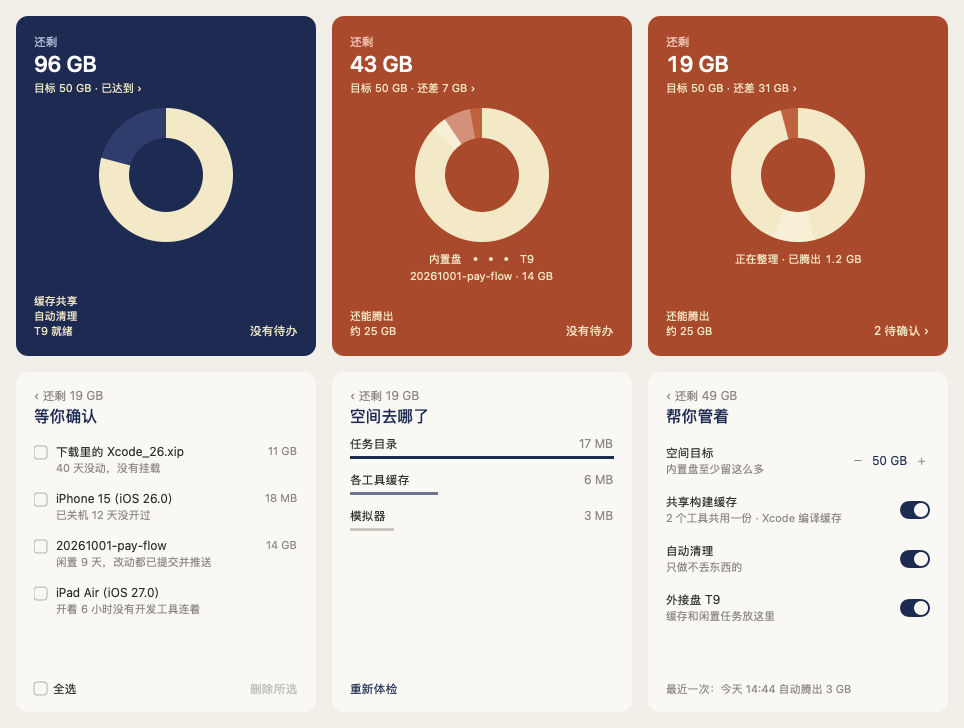
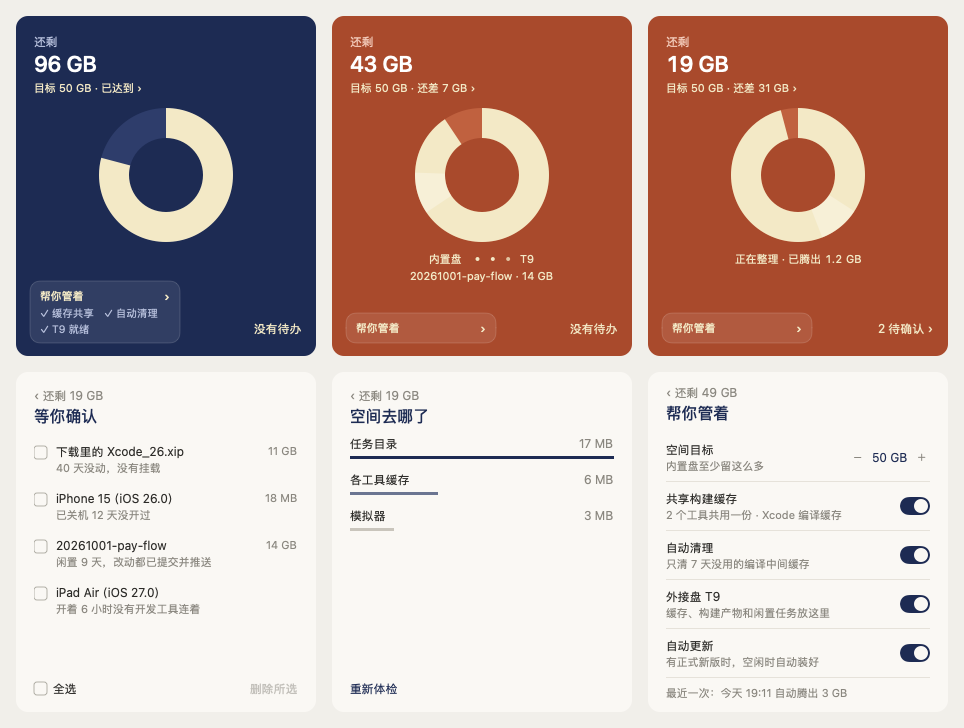
feat: 封面「帮你管着 ›」卡片；自动更新只在内存很紧时等 (#24)
* feat: 封面左下角改成「帮你管着 ›」半透明卡片，加强可点击感

视觉稿选 B（RAW-53～55）：标题加 ›，勾着开着的几项、每行两项不折断；悬停变亮、指针变小手；
后台干活时只留标题一行。离屏渲染：搬运状态最后设置，免得 2 秒重采样盖掉固定数字。

* fix: 自动更新只在内存「很紧」时等，等待原因写进 update.json

本机实测：两轮后台整理都碰上内存「紧张」（开着 5 台模拟器），更新一直等、也没留下原因。

---------

diff --git a/widget/Cover.swift b/widget/Cover.swift
@@ -256,33 +256,69 @@ private struct Cover: View {
             }
             VStack { Spacer(); HStack(alignment: .bottom) {
                 Button { store.page = .switches } label: {
-                    VStack(alignment: .leading, spacing: 1) { ForEach(Array(leftLines(tight).enumerated()), id: \.offset) { _, line in
-                        Text(line.0).foregroundColor(line.1)
-                    } }.font(.system(size: 11)).contentShape(Rectangle())
-                }.buttonStyle(.plain).help("帮你管着")
+                    // While the background works, the line under the ring already says what is going on.
+                    ManageCard(items: model.work == nil ? manageItems(tight, soft: soft) : [])
+                }.buttonStyle(.plain).help("打开「帮你管着」")
                 Spacer()
                 Button { if store.unplugged == nil && s.pending > 0 { store.page = .pending } else { store.page = .switches } } label: {
                     Text(rightLine(s)).font(.system(size: 12)).foregroundColor(store.unplugged == nil ? Ink.cream : Ink.coral)
-                }.buttonStyle(.plain)
-            } }.padding(18)
+                }.buttonStyle(.plain).padding(.bottom, 7)
+            } }.padding(.horizontal, 14).padding(.bottom, 13)
         }
     }
 
-    private func leftLines(_ tight: Bool) -> [(String, Color)] {
+    /// What the card says it manages: a tick per thing that is on, the unplugged drive in coral,
+    /// or, when space is short, how much more can be freed.
+    private func manageItems(_ tight: Bool, soft: Color) -> [(String, Color)] {
         if tight, let freed = store.checkup?.eligibleBytes, freed >= 1 << 30 {
-            return [("还能腾出", Ink.cream), ("约 \(size(freed))", Ink.cream)]
+            return [("还能腾出约 \(size(freed))", Ink.cream)]
         }
-        var lines: [(String, Color)] = []
-        if store.suggestion("caches")?.outcome == "已开启" { lines.append(("缓存共享", Ink.cream)) }
-        if store.suggestion("clean")?.outcome == "已开启" { lines.append(("自动清理", Ink.cream)) }
-        if let gone = store.unplugged { lines.append(("\(gone) 未连接", Ink.coral)) }
-        else if let drive = store.drive { lines.append(("\(drive) 就绪", Ink.cream)) }
-        return lines.isEmpty ? [(store.checkup == nil ? "" : "还没开启", Ink.cream)] : lines
+        var items: [(String, Color)] = []
+        if store.suggestion("caches")?.outcome == "已开启" { items.append(("✓ 缓存共享", soft)) }
+        if store.suggestion("clean")?.outcome == "已开启" { items.append(("✓ 自动清理", soft)) }
+        if let gone = store.unplugged { items.append(("\(gone) 未连接", Ink.coral)) }
+        else if let drive = store.drive { items.append(("✓ \(drive) 就绪", soft)) }
+        return items.isEmpty ? [(store.checkup == nil ? "" : "还没开启", soft)] : items
     }
 
     private func rightLine(_ s: Snapshot) -> String {
         if store.unplugged != nil { return "插上就恢复" }
         return s.pending > 0 ? "\(s.pending) 待确认 ›" : "没有待办"
+    }
+}
+
+/// The way into 「帮你管着」 (RAW-53/54, choice B): a soft card with a title and ›, so it reads as something to press.
+/// On hover it brightens and the pointer becomes a hand.
+private struct ManageCard: View {
+    let items: [(String, Color)]
+    @State private var hover = false
+
+    var body: some View {
+        VStack(alignment: .leading, spacing: 3) {
+            HStack(spacing: 0) {
+                Text("帮你管着").font(.system(size: 11, weight: .medium))
+                Spacer(minLength: 8)
+                Text("›").font(.system(size: 13, weight: .medium))
+            }.foregroundColor(Ink.cream)
+            // Two per line, never broken inside a word.
+            ForEach(Array(stride(from: 0, to: items.count, by: 2)), id: \.self) { start in
+                HStack(spacing: 10) {
+                    ForEach(start..<min(start + 2, items.count), id: \.self) { i in
+                        Text(items[i].0).foregroundColor(items[i].1).lineLimit(1).fixedSize()
+                    }
+                }.font(.system(size: 10.5))
+            }
+        }
+        .padding(.horizontal, 10).padding(.vertical, 7)
+        .frame(width: 150, alignment: .leading)
+        .background(RoundedRectangle(cornerRadius: 10).fill(Color.white.opacity(hover ? 0.16 : 0.09)))
+        .overlay(RoundedRectangle(cornerRadius: 10).stroke(Color.white.opacity(hover ? 0.34 : 0.18), lineWidth: 0.8))
+        .contentShape(RoundedRectangle(cornerRadius: 10))
+        .onHover { inside in
+            hover = inside
+            if inside { NSCursor.pointingHand.push() } else { NSCursor.pop() }
+        }
+        .animation(Motion.reduced ? nil : .easeOut(duration: 0.15), value: hover)
     }
 }
 

diff --git a/widget/main.swift b/widget/main.swift
@@ -392,9 +392,6 @@ func renderCover(_ tab: String, to out: String) throws {
     if let free = env["RENDER_FREE"].flatMap(Double.init) { model.snapshot.free = free }
     if let capacity = env["RENDER_CAPACITY"].flatMap(Double.init) { model.snapshot.capacity = capacity }
     if let pending = env["RENDER_PENDING"].flatMap(Int.init) { model.snapshot.pending = pending }
-    if let parts = env["RENDER_WORK"]?.split(separator: ":").map(String.init), parts.count == 4 {
-        model.work = Work(kind: parts[0], title: parts[1], bytes: Int64(parts[2]) ?? 0, freeBefore: Double(parts[3]))
-    }
     let store = CoverStore()
     store.checkup = try DashboardActions.call("checkup-preview")
     store.pending = try DashboardActions.call("pending-preview")
@@ -402,6 +399,10 @@ func renderCover(_ tab: String, to out: String) throws {
     store.memory = try DashboardActions.call("memory-page")
     if let pressure = env["RENDER_PRESSURE"].flatMap(UInt32.init) {
         model.snapshot.pressure = pressure; model.snapshot.memorySince = Date().timeIntervalSince1970 - 360
+    }
+    // Last, just before drawing: work starts a 2-second resample, which would replace the pinned numbers with this Mac's.
+    if let parts = env["RENDER_WORK"]?.split(separator: ":").map(String.init), parts.count == 4 {
+        model.work = Work(kind: parts[0], title: parts[1], bytes: Int64(parts[2]) ?? 0, freeBefore: Double(parts[3]))
     }
     store.page = ["cover-pending": .pending, "cover-space": .space, "cover-switches": .switches, "cover-plan": .plan,
                   "cover-memory": .memory][tab] ?? .cover

diff --git a/tests/test_updater.py b/tests/test_updater.py
@@ -85,12 +85,14 @@ class UpdaterTest(unittest.TestCase):
     def test_turned_off_it_never_looks(self):
         self.assertEqual(self.tick(enabled=False, release=Release(fail=AssertionError('looked while off')))['status'], 'off')
 
-    def test_it_waits_while_memory_is_tight(self):
+    def test_it_waits_only_while_memory_is_critical_and_says_so(self):
         memory = self.home / '.local/state/dev-memory'; memory.mkdir(parents=True)
+        (memory / 'latest.json').write_text(json.dumps(dict(sample=dict(pressure=4))))
+        state = self.tick(release=Release(fail=AssertionError('looked while memory was critical')))
+        self.assertEqual(state.get('waiting'), '内存很紧')
+        self.assertEqual(updater.read(self.home).get('waiting'), '内存很紧', 'the reason is kept for later')
+        # 「紧张」 (2) is where a Mac with several simulators sits for hours: that alone does not hold the update.
         (memory / 'latest.json').write_text(json.dumps(dict(sample=dict(pressure=2))))
-        state = self.tick(release=Release(fail=AssertionError('looked under pressure')))
-        self.assertEqual(state.get('waiting'), '内存紧张')
-        (memory / 'latest.json').write_text(json.dumps(dict(sample=dict(pressure=1))))
         self.assertEqual(self.tick(now=NOW + 300)['status'], 'installing')
 
     def test_offline_is_tried_again_after_an_hour(self):

diff --git a/runtime/storage/updater.py b/runtime/storage/updater.py
@@ -81,12 +81,13 @@ def alive(pid):
 
 
 def busy_reason(home):
-    """Not now: memory is tight (building the app needs some), so wait for a calmer moment."""
+    """Not now: memory is critical (building the app needs a few hundred MB). Plain 「紧张」 does not wait:
+    a Mac running several simulators sits there for hours, and the build takes under half a minute."""
     try:
         sample = json.loads((Path(home) / '.local/state/dev-memory/latest.json').read_text()).get('sample') or {}
     except (OSError, ValueError):
         return None
-    return '内存紧张' if sample.get('pressure') in (2, 4) else None
+    return '内存很紧' if sample.get('pressure') == 4 else None
 
 
 def log_tail(home, lines=5):
@@ -122,7 +123,9 @@ def tick(home, enabled, now=None, fetch=urllib.request.urlopen, spawn=subprocess
         return data
     waiting = busy_reason(home)
     if waiting and not force:
-        return dict(data, waiting=waiting)
+        data.update(waiting=waiting, waiting_at=now)   # kept, so 「为什么还没更新」 has an answer
+        save(home, data)
+        return data
     data.update(checked_at=now, waiting=None)
     try:
         release = latest(fetch)

diff --git a/docs/epics/one-click-setup/specs/menubar-cover.md b/docs/epics/one-click-setup/specs/menubar-cover.md
@@ -26,7 +26,7 @@
 | AC-03 | [核] | 用了外接盘但没连接 | 打开封面 | 左下角该行变成珊瑚色「T9 未连接」，右下角「插上就恢复」 | mac原生 | ✅ | ui: cover/3-unplugged.png |
 | AC-04 | [核] | 有待确认的清理 | 点右下角 | 进「等你确认」：可以逐项勾选，也可以点底部「全选」一键全选、再点取消；勾选后底部显示已选大小；点「删除所选」先确认并写明会失去什么；确认后真的删掉，底部写「已删除 N 项，腾出约 X」；没删的逐项列出原因；页面开着超过 5 分钟、或后台正在整理时确认，也照样执行（后者等它做完）；右键一项可「不再提醒」 | mac原生 | ✅ | ui: cover/4-pending.png、cover/4b-pending-all.png；真实面板在隔离目录点「全选 → 删除所选 → 删除」4 种情形：正常 4 项全删、确认 400 秒后仍删、后台占锁 5 秒后等完再删、一项先被手动删掉时其余 3 项删除并列出那一项（改前：超时情形「确认已过期…未执行」一项未删）；另有进程命令行含被截断的中文时照常删除 |
 | AC-05 | [核] | 体检做过 | 点圆环 | 进「空间去哪了」：每类一行大小加一根细条，最大的一类最深；可「重新体检」 | mac原生 | ✅ | ui: cover/5-space.png |
-| AC-06 | [核] | 打开封面 | 点左下角 | 进「帮你管着」：只有五行——空间目标（− N GB +）和共享构建缓存、自动清理、外接盘、自动更新四个开关，控件都对齐在同一条右边线上，各一行短说明；底下一行「最近一次：今天 14:00 自动腾出 3 GB」；没有「全部开启」；关共享缓存前先确认会还原什么 | mac原生 | ✅ | ui: v17/4-switches.png；开关动作沿用 checkup-apply / checkup-off（test_one_click）；最近一次见 LastAutoTest；ui: v177/1-switches.png（五行，1.7.7） |
+| AC-06 | [核] | 打开封面 | 点左下角的「帮你管着 ›」卡片（半透明圆角卡片，标题加 ›，下面勾着开着的几项、每行两项不折断；鼠标移上去卡片变亮、指针变小手；后台干活时只留标题一行，给圆环下的进度让位） | 进「帮你管着」：只有五行——空间目标（− N GB +）和共享构建缓存、自动清理、外接盘、自动更新四个开关，控件都对齐在同一条右边线上，各一行短说明；底下一行「最近一次：今天 14:00 自动腾出 3 GB」；没有「全部开启」；关共享缓存前先确认会还原什么 | mac原生 | ✅ | ui: v17/4-switches.png；开关动作沿用 checkup-apply / checkup-off（test_one_click）；最近一次见 LastAutoTest；ui: v177/1-switches.png（五行，1.7.7）；ui: v178/sheet.png（卡片：平时、内存紧张、空间紧张、后台挪任务，1.7.7） |
 | AC-08 | [边] | 接了两块以上显示器，鼠标在没有菜单栏图标的那块屏幕上（或那块屏幕的菜单栏被全屏 App 藏起来、图标被刘海挡住） | 按快捷键、点通知或点那块屏幕菜单栏上的图标 | 面板在鼠标所在的屏幕弹出，横向位置和图标在菜单栏里的位置对齐，整块面板都在这块屏幕内；面板已在另一块屏幕打开时，按快捷键把它挪过来而不是关掉 | mac原生 | ⚠ | auto: `ResourceDashboard --self-test`（PanelPlacement.selfTest：右侧、左侧负坐标、上方叠放、小屏、菜单栏隐藏、刘海共 8 例；改回「总是挂在图标下」即 FAIL）；ui: 本机单屏 `--probe-panel 960,540 --hide-icon` 面板落在右上角菜单栏下方（顶边 1049，右边 1920）；真实的第二块显示器当时没接，未实测 |
 | AC-07 | [边] | 右键菜单栏图标 | 打开菜单 | 只有「打开资源看板」和「退出资源看板」 | mac原生 | ✅ | 实现在 AppDelegate.applicationDidFinishLaunching；原来的大窗口和「更多」已删除，编译通过即证明没有入口残留 |
 | AC-09 | [核] | 后台正在挪任务到外接盘、删构建产物或清缓存 | 看菜单栏和封面 | 菜单栏数字后多一个轻轻闪的点，做完消失；空间变多时数字从旧值慢慢涨到新值；封面圆环上一道光绕着走，圆环收拢到新比例；圆环下写「正在整理 · 已腾出 X GB」（数字跟着涨），挪到外接盘时是一串点从「内置盘」流向外接盘名并写任务名和大小；系统开了「减少动态效果」时都不动 | mac原生 | ✅ | auto: test_tiers 的状态文件测试（挪动时写、做完删）、`--self-test`（Motion）；ui: 真实 App 在隔离目录写入状态文件后读回：菜单栏「 21G」→「 21G •」，点的透明度 1.0→0.25 交替，停止后回到「 21G」；数字 21→25→27；面板截图 v17/7-live-moving.png、v17/2-cover-moving.png、v17/3-cover-cleaning.png |
@@ -40,6 +40,7 @@
 |---|---|---|---|
 | CH-01 | 2026-10-28 | 新建：看板首页改为菜单栏封面，旧页签收进「更多」（RAW-15～19） | [需求变更] |
 | CH-02 | 2026-10-28 | 「等你确认」底部加「全选」：一键勾上所有能执行的项，再点取消（RAW-20） | [需求变更] |
+| CH-11 | 2026-10-29 | 封面左下角改成「帮你管着 ›」半透明卡片，加强可点击感（RAW-53～55，视觉稿选 B）（AC-06） | [需求变更] |
 | CH-10 | 2026-10-29 | 「帮你管着」加第五行「自动更新」（RAW-52；见 one-line-install CH-05）（AC-06） | [需求变更] |
 | CH-09 | 2026-10-29 | 内存页状态从灰色小字改成彩色标签（RAW-45、RAW-46，视觉稿选 A：标签在名字下）：绿=可以关、蓝=在用不动、紫=开发工具连着、橙=闲置会自动收尾，文字也缩短（AC-11） | [需求变更] |
 | CH-08 | 2026-10-29 | Logo「小留」（RAW-42～44）：原创的小机器人，眼睛是封面那只留着缺口的圆环、手里捧一块缓存；不用瓦力（皮克斯角色，有版权）。菜单栏换成它的实心剪影（1 倍屏和 2 倍屏各一份对齐像素的图），App 图标在本机编译时由同一份代码画出，README 加头图（AC-12） | [需求变更] |

diff --git a/docs/epics/one-click-setup/specs/one-line-install.md b/docs/epics/one-click-setup/specs/one-line-install.md
@@ -29,7 +29,7 @@
 | AC-08 | [边] | 已经装过（升级），或者三项本来就开着 | 再跑安装命令 | 不再问，原来的开关保持不变 | CLI后端 | ✅ | auto: ConsentTest（第二次返回「decided」；三项已开时直接记为同意） |
 | AC-05 | [核] | 安装刚完成 | App 第一次启动 | 后台做一次体检，完成后发一条通知「体检完成」，写明哪几项已经开好（或打开后可腾出约多少空间）；点通知打开体检页；同一版本只发一次 | mac原生 | ⚠ | 实测：本机安装后首次体检后台跑完（17:57:22→17:58:55），checkup.json 记下 notified_version=1.5.0-8，即已调用系统通知；通知横幅与点击打开体检页需要看屏幕，未截图 |
 | AC-09 | [核] | 任何人的 Mac：已经装过、给资源看板点过「允许」访问外接盘（或下载文件夹、访达） | 再跑安装命令升级 | macOS 不再问这些权限，后台往外接盘挪东西照常；新装只在装好后问一次（安装输出写明「点过以后升级不会再问」）；从临时签名的旧版（1.7.5 及更早）第一次升级时最后再问一次；签名放在资源看板自己的目录里，Mole 白名单护着它；本机生成签名失败时退回临时签名并说明下次会再问 | CLI后端 | ✅ | auto: test_local_signing（临时签名每次都变；两次编译同一身份、只生成一次；半途中断能重建；失败退回临时签名），CI 的 macOS 26.6 和本机 macOS 27 都签成了固定签名；实测（本机，10-29）：19:24 换成固定签名后，19:28 系统问了一次外接盘权限，用户点了允许；19:35 用一行命令从 main 重装（重新编译，证书 39ea… 没变，安装输出不再提示权限）；19:38 后台整理访问外接盘时，tccd 记录 authValue=2（允许），没有弹窗，也没有「签名对不上」；之前用临时签名授过的「下载文件夹」等权限，下次用到时会再问最后一次 |
-| AC-10 | [核] | 装的是 1.7.7 或更新的版本，「自动更新」开着（默认开） | 我们发布了一个新的正式版本（tag 加 GitHub Release） | 一天内，后台在空闲、内存不紧张时，用手动安装的同一条命令把它装好；不弹面板，空间目标、各个开关和权限都保留；正在跑的整理和构建用旧版本跑完；只认正式版本，合到 main 的提交不会自动发出去；没联网时一小时后再试，装失败也是一小时后再试；在「帮你管着」里关掉就不再检查；`resource-guard-service update` 可以马上更新 | CLI后端 | ⏳ | 待补 |
+| AC-10 | [核] | 装的是 1.7.7 或更新的版本，「自动更新」开着（默认开） | 我们发布了一个新的正式版本（tag 加 GitHub Release） | 一天内，后台在空闲、内存不是「很紧」时，用手动安装的同一条命令把它装好；不弹面板，空间目标、各个开关和权限都保留；正在跑的整理和构建用旧版本跑完；只认正式版本，合到 main 的提交不会自动发出去；没联网时一小时后再试，装失败也是一小时后再试；在「帮你管着」里关掉就不再检查；`resource-guard-service update` 可以马上更新 | CLI后端 | ⏳ | 待补 |
 | AC-11 | [核] | 刚被自动更新到新版本 | 新版本的 App 第一次启动 | 发一条通知「资源看板已更新到 X」，正文是这个 Release 说明的第一行；同一个版本只提醒一次，这一次不再发「体检完成」；手动装的版本不发这条通知 | mac原生 | ⏳ | 待补 |
 
 ## 变更记录

diff --git a/docs/design.md b/docs/design.md
@@ -157,6 +157,7 @@ xcrun swiftc -parse-as-library widget/Logo.swift scripts/render_brand.swift -o /
 ## 组件
 
 - **封面圆环**：奶油色是已用比例，轨道色是剩余空间。后台整理时，会有一道光绕着圆环走。点圆环进入「空间去哪了」。
+- **「帮你管着」卡片**：封面左下角一张半透明圆角卡片，标题「帮你管着 ›」，下面勾着开着的几项，例如「✓ 缓存共享 ✓ 自动清理 ✓ T9 就绪」，每行两项，不在词中间折行。外接盘没接上时那一项用珊瑚色；空间紧张时改写「还能腾出约 25 GB」。鼠标移上去卡片变亮、指针变小手。后台在干活时卡片只留标题一行，把位置让给圆环下面的进度。
 - **设置行**：标题 12，说明 11（灰色）。右侧控件（开关、`− 50 GB +`）都对齐在同一条右边线上。
 - **勾选、全选、删除所选**：点删除先弹确认，写清会失去什么。删除进行中，列表变灰、不能点，底部只留一行进度，例如「正在核对并删除 3 项，好了会告诉你…」。
 - **状态标签**：见上方色板。标签文字一眼读完，10 个字以内，用「 · 」分开状态和结论。
@@ -242,5 +243,6 @@ xcrun swiftc -parse-as-library widget/Logo.swift scripts/render_brand.swift -o /
 | 2026-10-29 | 本机固定签名，权限只问一次，谁装都一样 | RAW-47～49（[one-line-install](epics/one-click-setup/specs/one-line-install.md) CH-04） |
 | 2026-10-29 | 这份设计文档 | RAW-50 |
 | 2026-10-29 | 自动更新：只认正式版本，空闲时装，装好发通知；「帮你管着」加第五行 | RAW-51、RAW-52（one-line-install CH-05） |
+| 2026-10-29 | 封面左下角改成「帮你管着 ›」半透明卡片，一看就知道能点 | RAW-53～55，视觉稿选 B（menubar-cover CH-11） |
 
 原话都记在 [raw-input](epics/one-click-setup/raw-input.md) 里。

diff --git a/README.md b/README.md
@@ -177,7 +177,7 @@ cd "/你的项目目录"
 
 ## 更新
 
-**1.7.7 起会自己更新。** 后台每天查一次有没有新的正式版本：只看发布过的版本，不看 main 上的最新提交。有新版本时，等后台空闲、内存不紧张了，再用和手动安装一模一样的命令装好。装的时候不弹面板，空间目标、各个开关和 macOS 权限都保留；装好后发一条通知，例如「资源看板已更新到 1.7.8」，并用一句话说明改了什么。
+**1.7.7 起会自己更新。** 后台每天查一次有没有新的正式版本：只看发布过的版本，不看 main 上的最新提交。有新版本时，等后台空闲、内存不是「很紧」时，再用和手动安装一模一样的命令装好。装的时候不弹面板，空间目标、各个开关和 macOS 权限都保留；装好后发一条通知，例如「资源看板已更新到 1.7.8」，并用一句话说明改了什么。
 
 - 不想自动更新：在「帮你管着」里关掉「自动更新」。
 - 想马上更新：运行 `~/.local/bin/resource-guard-service update`，或者告诉你的 agent「更新资源看板」。

diff --git a/references/install.md b/references/install.md
@@ -124,7 +124,7 @@ security delete-keychain ~/.local/share/dev-resource-guard/signing/signing.keych
 - **检查频率**：每天最多查一次 `https://api.github.com/repos/ruanjianjian/mac-dev-resource-guard/releases/latest`。没联网或被限流时，一小时后再查。
 - **什么时候装**：
   - 正式版本号比已装的 App 新，才会安装。
-  - 内存紧张时先不装，因为编译要占内存。
+  - 内存「很紧」时先不装，因为编译要占几百 MB；只是「紧张」时照装（开着几台模拟器的 Mac 经常一整天都处在「紧张」，编译不到半分钟）。等待的原因会记在 `update.json` 里。
 - **怎么装**：新开一个会话，运行和手动安装一模一样的命令，钉在那个 tag 上：`curl … /<tag>/install.sh | RESOURCE_GUARD_REF=refs/tags/<tag> bash`。
   - 安装器会等后台整理的锁，不打断正在跑的任务，也不弹面板。
   - tag 只接受 `vX.Y.Z` 格式，否则不执行。
